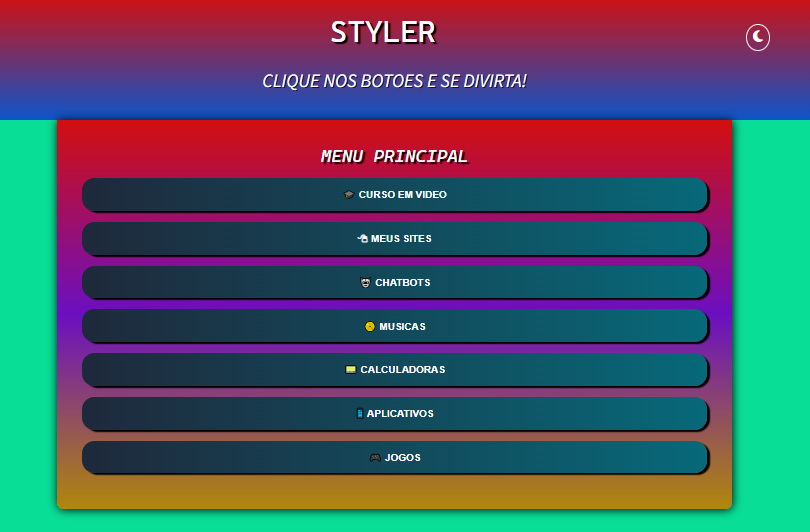
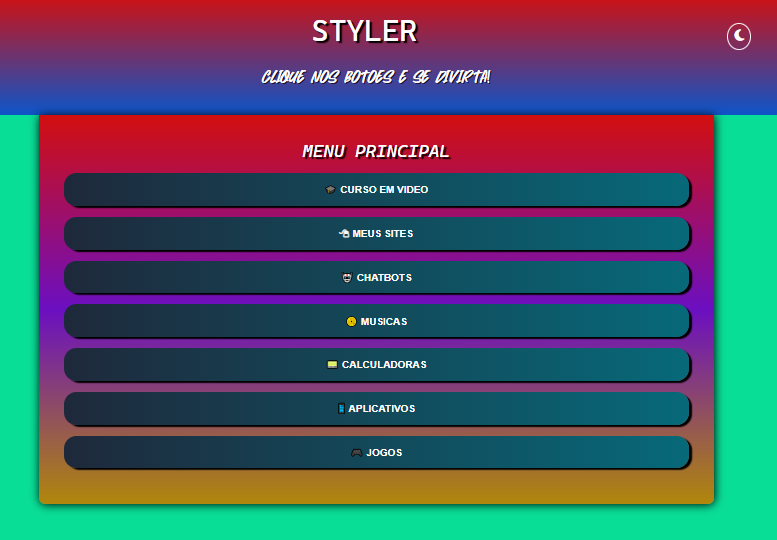
VERSÃO 3.8.7
* ✅ Foi adicionada ao site a funcionalidade de prévia de link com título, foto e descrição, permitindo que ao compartilhar o link em redes sociais como WhatsApp, Facebook e Twitter, uma visualização personalizada com informações relevantes e imagem de destaque seja exibida automaticamente.

diff --git a/02_ENTRAR/01_MENU PRINCIPAL/CSS/fontes.css b/02_ENTRAR/01_MENU PRINCIPAL/CSS/fontes.css
@@ -12,7 +12,7 @@
 
 @font-face {
     font-family: "--fonte-gg-3";
-    src: url(../../../00_MODEL/FONTES/CascadiaCode-Italic-VariableFont_wght.ttf);
+    src: url(../../../00_MODEL/FONTES/BebasNeue-Regular.ttf);
 }
 
 @font-face {
@@ -74,7 +74,7 @@
 
     main > h1 {
         font-family: "--fonte-gg-3";
-        font-size: 1.8em;
+        font-size: 2em;
     }
 }
 
@@ -92,7 +92,7 @@
 
     main > h1 {
         font-family: "--fonte-g-3";
-        font-size: 2.7em;
+        font-size: 2.5em;
     }
 }
 
@@ -123,7 +123,7 @@
 
     header p {
         font-family: "--fonte-p-2";
-        font-size: 1.4em;
+        font-size: 1.3em;
     }
 
     main > h1 {

diff --git a/01_HOME/LINKS/CSS/fontes.css b/01_HOME/LINKS/CSS/fontes.css
@@ -12,7 +12,7 @@
 
 @font-face {
     font-family: "--fonte-gg-3";
-    src: url(../../../00_MODEL/FONTES/CascadiaCode-Italic-VariableFont_wght.ttf);
+    src: url(../../../00_MODEL/FONTES/Happy\ Holiday.ttf);
 }
 
 @font-face {
@@ -74,7 +74,7 @@
 
     main > h1 {
         font-family: "--fonte-gg-3";
-        font-size: 1.8em;
+        font-size: 2.5em;
     }
 }
 

diff --git a/01_HOME/01_INICIO/CSS/fontes.css b/01_HOME/01_INICIO/CSS/fontes.css
@@ -12,7 +12,7 @@
 
 @font-face {
     font-family: "--fonte-gg-3";
-    src: url(../../../00_MODEL/FONTES/CascadiaCode-Italic-VariableFont_wght.ttf);
+    src: url(../../../00_MODEL/FONTES/Happy\ Holiday.ttf);
 }
 
 @font-face {

diff --git a/03_MENU/CSS/fontes.css b/03_MENU/CSS/fontes.css
@@ -7,7 +7,7 @@
 
 @font-face {
     font-family: "--fonte-gg-2";
-    src: url(../../00_MODEL/FONTES/SourceSans3-Italic-VariableFont_wght.ttf);
+    src: url(../../00_MODEL/FONTES/Happy\ Holiday.ttf);
 }
 
 @font-face {
